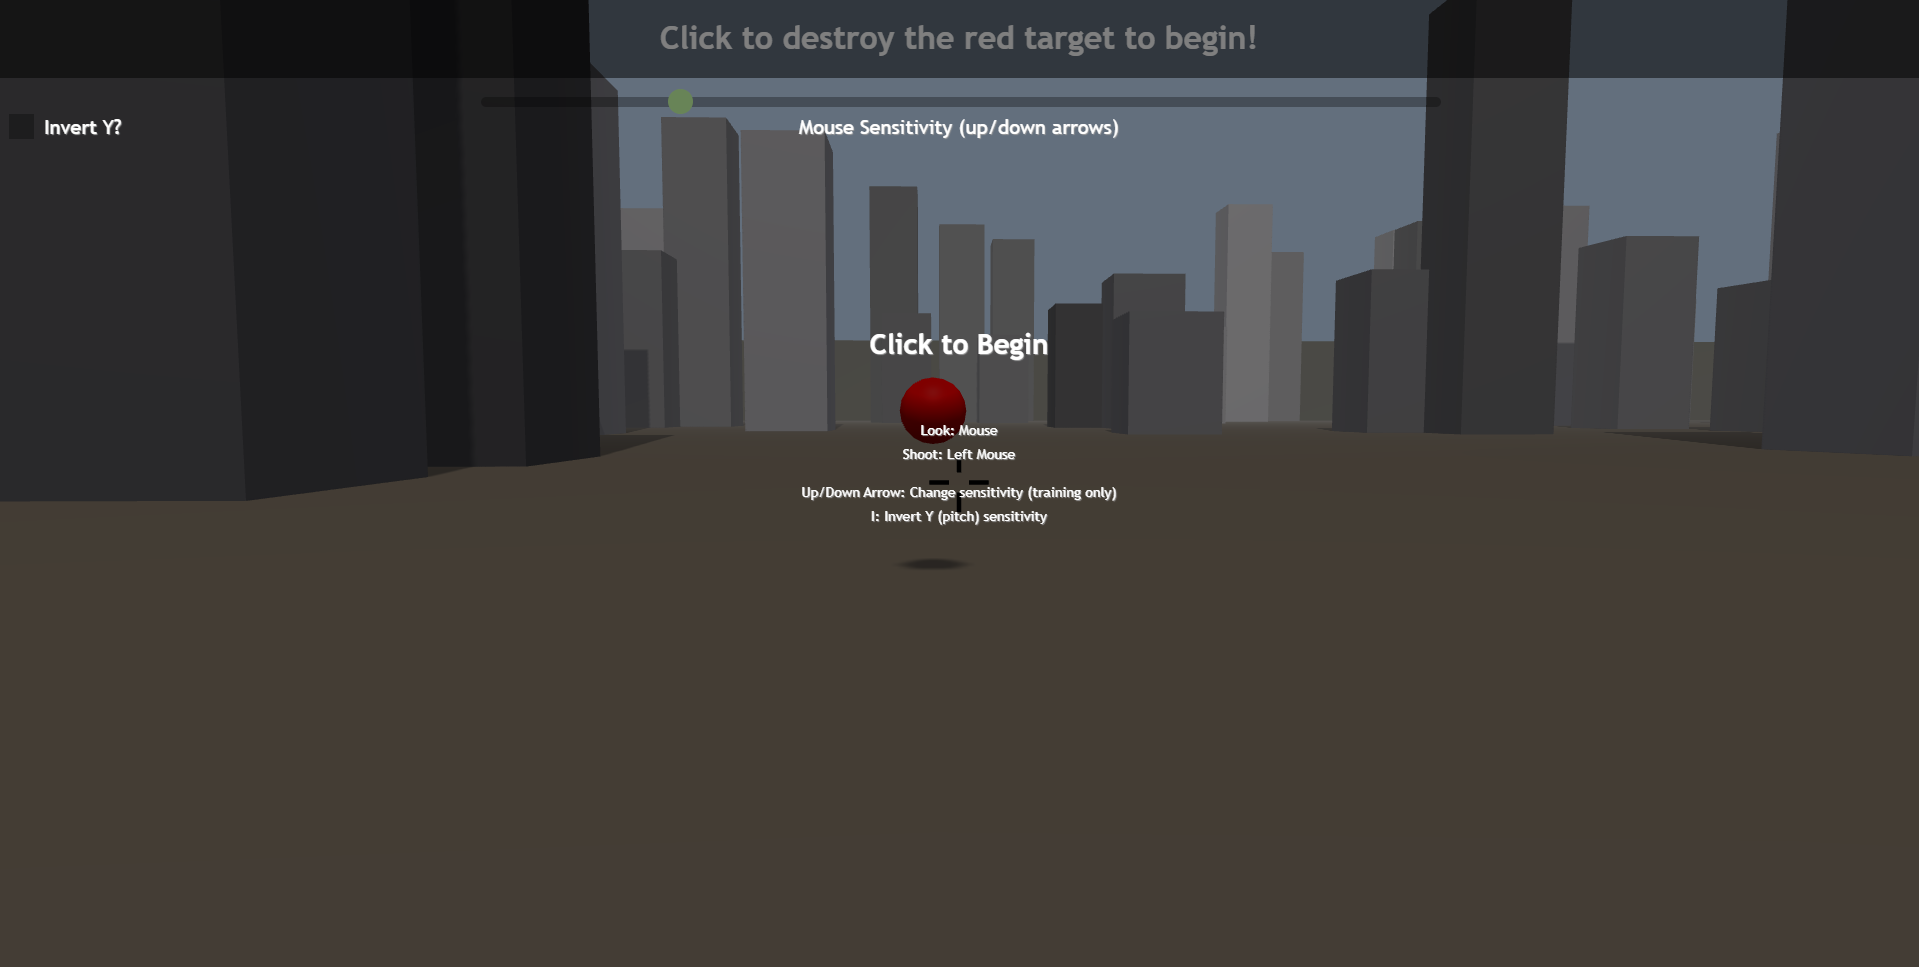
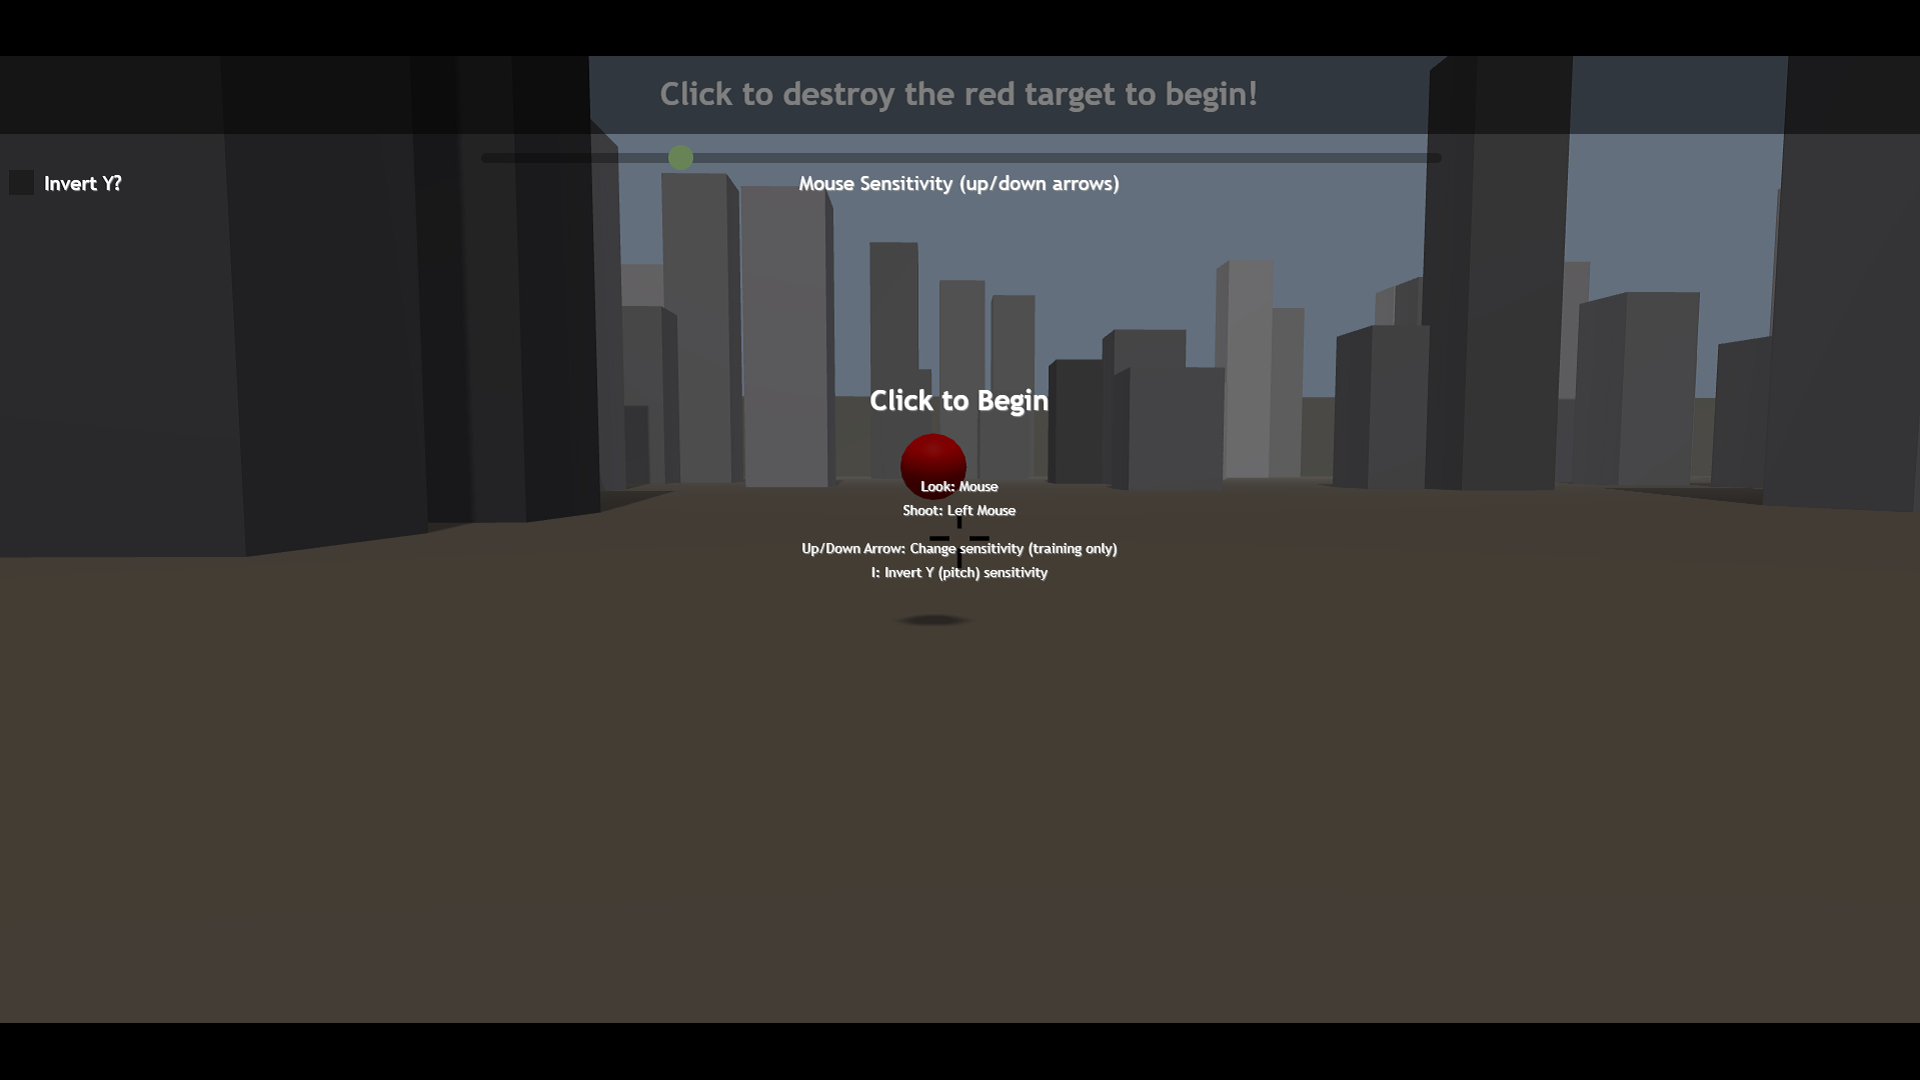
Minor change for sizing/alignment of 1st 2 images

diff --git a/index.html b/index.html
@@ -52,8 +52,8 @@
 <p> The training session is intended to familiarize users with the experience and type of targets they will be asked to destroy in the following trials. </p>
 <p> In this view moving the mouse left and right will rotate the view azimuth (yaw) angle while moving the mouse up and down will rotate the view elevation (pitch) angle. </p>
 
-<img src="images/IntroDisplay.png" alt="Intro Display" style="width:50%"> 
-<img src="images/StartOfTraining.png" alt="Start of Training" style="width:48%">
+<img src="images/IntroDisplay.png" alt="Intro Display" style="width:49%"> 
+<img src="images/StartOfTraining.png" alt="Start of Training" style="width:49%">
 
 <p> Training begins when the user left clicks on the red reference target, destroying it and spawning the first moving training target. </p>
 <p> During training the user can adjust their mouse sensitivity at any point by using the keyboard <b>up/down arrows</b>, or by pressing escape and using the cursor to adjust the "Mouse Sensitivty" slider located at the top of the screen.
